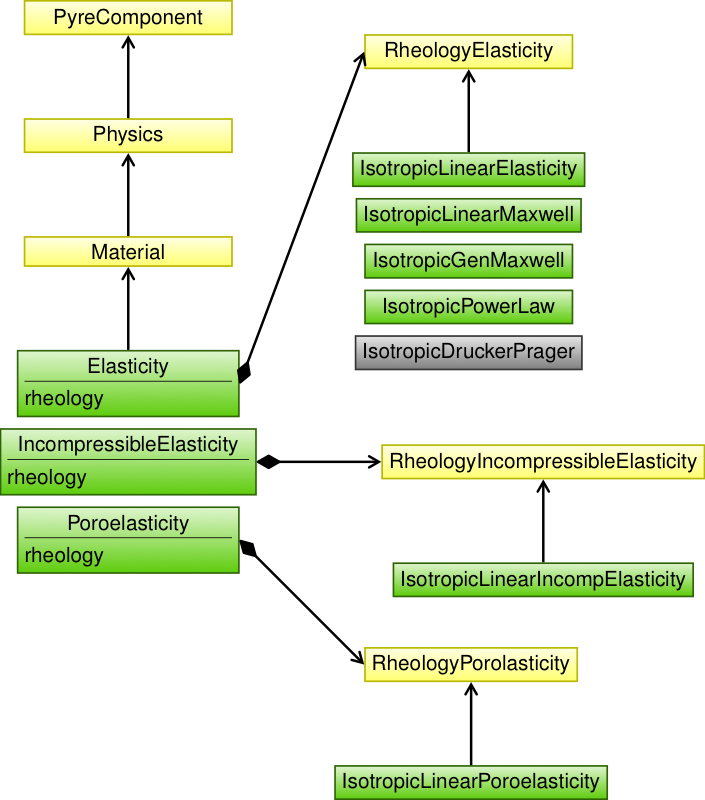
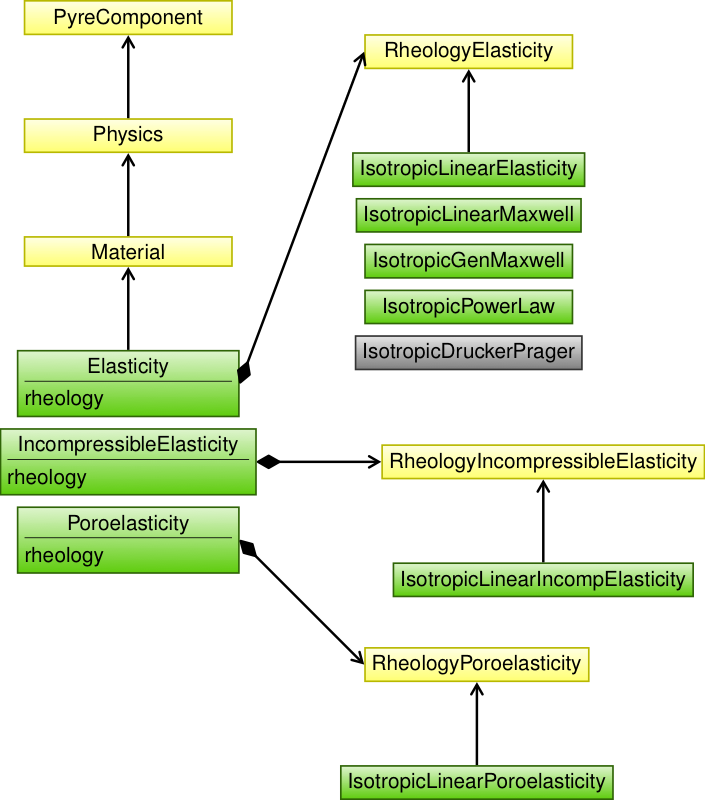
Fix typo in diagram of material classes.

Changed region(s): [[0.4681, 0.8438, 0.8738, 1.0], [0.7177, 0.8125, 0.8426, 0.875]]

diff --git a/docs-sphinx/developer/contributing/figs/classdiagram_material.tex b/docs-sphinx/developer/contributing/figs/classdiagram_material.tex
@@ -36,7 +36,7 @@
   \node (isotropic-linear-incompressible-elasticity) [concrete-class] at ($(rheology-incompressible-elasticity.south)-(0,4em)$) {\umlemptyclass{IsotropicLinearIncompElasticity}};
   
   % Poroelasticity rheologies
-  \node (rheology-poroelasticity) [abstract-class,anchor=west] at ($(poroelasticity.east)+(6em,-6em)$) {\umlemptyclass{RheologyPorolasticity}};
+  \node (rheology-poroelasticity) [abstract-class,anchor=west] at ($(poroelasticity.east)+(6em,-6em)$) {\umlemptyclass{RheologyPoroelasticity}};
   \node (isotropic-linear-poroelasticity) [concrete-class] at ($(rheology-poroelasticity.south)-(0,4em)$) {\umlemptyclass{IsotropicLinearPoroelasticity}};
   
   
